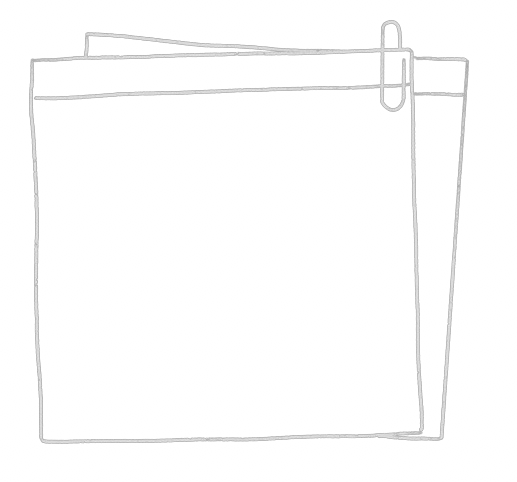
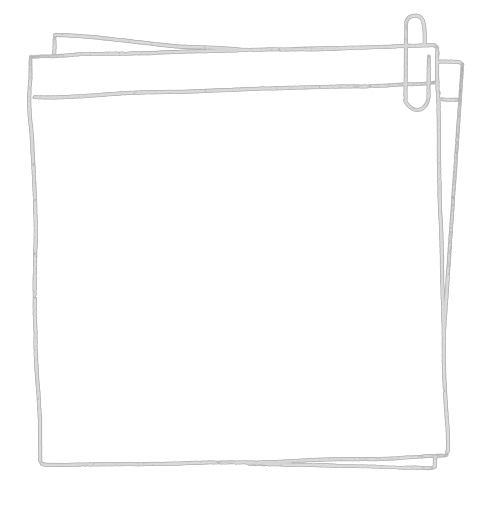
Update styles.css

diff --git a/styles.css b/styles.css
@@ -51,8 +51,7 @@ body {
     position: absolute; 
     width: 100%;
     height: 3px; 
-    background: url('Images/underlineBold.png') no-repeat center center; 
-    
+    background: url('Images/linkCircle.png') no-repeat center center; 
     background-size: 100% 100%;
     left: 0; 
     bottom: -5px; 
@@ -120,7 +119,7 @@ body {
     background-position: center;
     padding: 5px; 
     width: 500px; 
-    height: 500px; 
+    height: 450px; 
     box-sizing: border-box; 
     display: flex;
     justify-content: center;
@@ -151,20 +150,22 @@ body {
     padding: 20px;
     z-index: 2;
     transition: 0.2s;
-    width: 300px;
+    width: 18em;
     max-height: 280px;
     border-radius: 5px;
     overflow: hidden;
-    border: 1px solid #e6e9e9;
     padding: 0.5em;
     margin: 0.5em;
     display: inline-block;
 }
 
+
+
 .card-image {
 
     width: 100%;
     height: auto;
+    border: 2px solid #e6e9e9;
 }
 
 .card-content {

diff --git a/index.html b/index.html
@@ -39,7 +39,7 @@
 
 
 <div class="pencil-container">
-<img src="/Images/pencilDivider.png" alt="hand drawn pencil to divide the page" class="pencil-divider"></a>
+<img src="/Images/pencilDividerThin.png" alt="hand drawn pencil to divide the page" class="pencil-divider"></a>
 </div>
 
     
